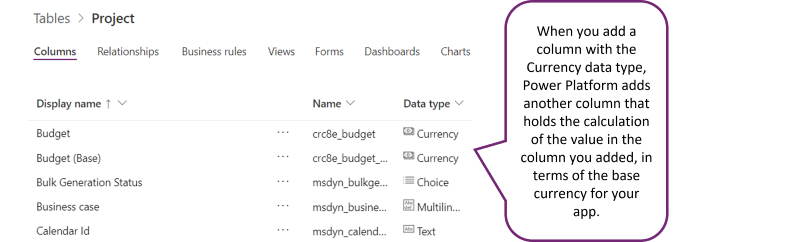
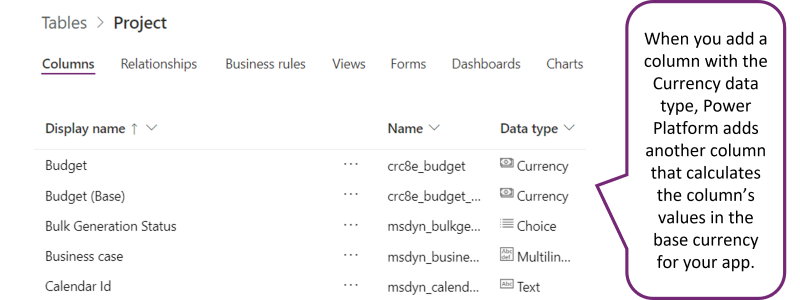
revised per Acrolinx

diff --git a/ProjectWeb/add-a-custom-column-in-the-project-power-app.md b/ProjectWeb/add-a-custom-column-in-the-project-power-app.md
@@ -53,8 +53,8 @@ To create a custom table column in Project Power App, you have two choices:
 | **Property** | **Description** |
 | --: | --: |
 | **Display Name** | Text that appears next to and identifies the column in the user interface. |
-| **Name** | Provides a unique name for the column across your environment. An automatically-generated name appears when you enter a display name, but you can edit the value before you save the column properties. After you save the column properties when you create the column, its name cannot be changed. The name always has the customization prefix for your Dataverse Default Publisher. |
-| **Data type** | Controls how values are stored, and in some applications how they are formatted. After you save the column properties, you can't change the data type. Exception: you can convert text columns to autonumber columns. |
+| **Name** | Provides a unique name for the column across your environment. An automatically generated name appears when you enter a display name, but you can edit the value before you save the column properties. After you save the column properties when you create the column, its name can’t be changed. The name always has the customization prefix for your Dataverse Default Publisher. |
+| **Data type** | Controls how values are stored, and in some applications how they're formatted. After you save the column properties, you can't change the data type. Exception: you can convert text columns to autonumber columns. |
 | **Required** | A row can't be saved without data in this column. For more information, see [Saving rows programmatically for required columns](/powerapps/maker/data-platform/create-edit-field-portal#saving-rows-programmatically-for-required-columns). |
 | **Searchable** | Controls whether the column appears in Advanced Find and is available when customizing views. |
 | **Calculated or Rollup** | Use to automate manual calculations. Use values, dates, or text. |
@@ -65,9 +65,9 @@ To create a custom table column in Project Power App, you have two choices:
 
 ## Example: Add a *Budget* column to the *Project* table
 
-Anita Montero has determined that her business has grown complex enough to require more granular accounting. She needs to start allocating funds at the Project level. She checked and didn't see a built-in column for this, so she's changing the Project Power App using the [Power Apps portal](https://make.powerapps.com/).
+Anita Montero has determined that her business has grown complex enough to require more granular accounting. She needs to start allocating funds at the Project level. There's no built-in column that works for her, so she's adding a custom column to the Project Power App using the [Power Apps portal](https://make.powerapps.com/).
 
-She opens the Project table and verifies it's not a Managed or a System table. If it were, she'd have to reconsider her plan.
+She opens the *Project* table and verifies it's not a Managed or a System table, so it's safe to change.
 
 :::image type="content" source="media/add-a-custom-column-in-the-project-power-app-04.png" alt-text="Make changes in your Development environment first, so you can ensure they work as expected before you deploy them in your Production environment. Make sure that a table isn’t a Managed or System table before you try to make arbitrary changes to it.":::
 
@@ -85,7 +85,7 @@ The *Budget* column is now visible in the *Project* table. Anita selects **Save 
 
 After saving, Anita notices there's another new column, right under *Budget*: *Budget (Base)*. It's an automatic column that shows the value of *Budget* in terms of the base currency defined for her app. Power Platform adds one when you [add a column with the Currency data type](/powerapps/maker/data-platform/types-of-fields#using-currency-columns).
 
-:::image type="content" source="media/add-a-custom-column-in-the-project-power-app-09.png" alt-text="When you add a column with the Currency data type, Power Platform adds another column that holds the calculation of the value in the column you added, in terms of the base currency for your app.":::
+:::image type="content" source="media/add-a-custom-column-in-the-project-power-app-09.png" alt-text="When you add a column with the Currency data type, Power Platform adds another column that calculates the column’s values in the base currency for your app.":::
 
 ## Add a form field to the *Information* form
 
@@ -105,7 +105,7 @@ After you add a custom column to the Project Power App, you should add it the *I
    :::image type="content" source="media/add-a-custom-column-in-the-project-power-app-12.png" alt-text="When you drag a field onto a form, it’s added to the General section unless you drop it somewhere else.":::
 
 1. On the command bar, select **Save**.
-1. When you are ready to roll out your changes to the environment you're in, on the command bar, select **Publish**.
+1. When you're ready to roll out your changes to the environment you're in, on the command bar, select **Publish**.
 
    :::image type="content" source="media/add-a-custom-column-in-the-project-power-app-13.png" alt-text="After you publish your changes, the new field appears in every project in the same environment.":::
 
